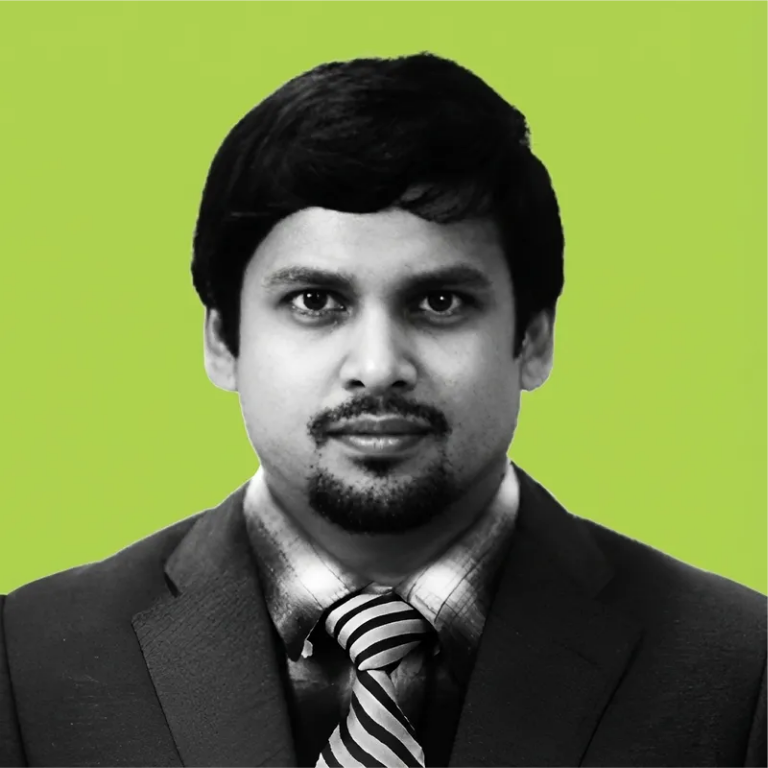
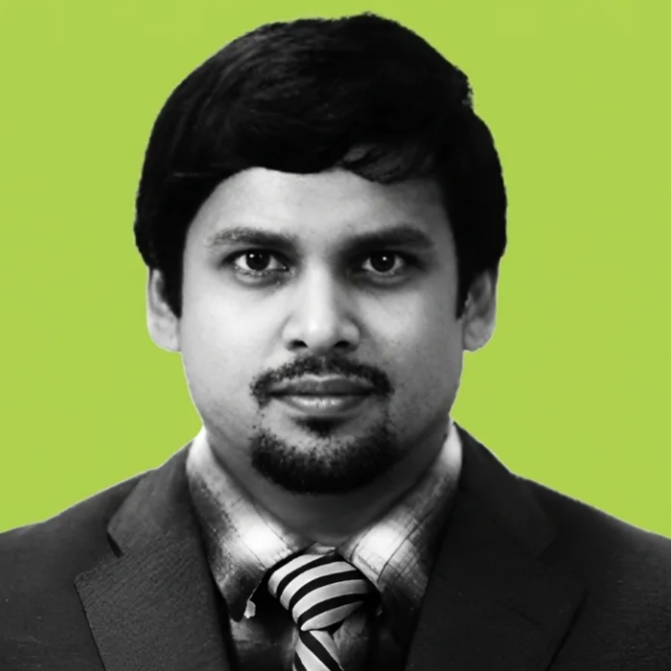
deploy: fb0ec9ef4704affa697c0abbe8e59f0c5f31c004

diff --git a/index.html b/index.html
@@ -174,13 +174,13 @@ window.Quarto = {
 <meta property="og:description" content="Developed by Dr.&nbsp;Md Abdus Samad">
 <meta property="og:image" content="https://www.drabdus.info/files/images/profile.png">
 <meta property="og:site_name" content="Md Abdus Samad">
-<meta property="og:image:height" content="768">
-<meta property="og:image:width" content="768">
+<meta property="og:image:height" content="671">
+<meta property="og:image:width" content="671">
 <meta name="twitter:title" content="Md Abdus Samad, PhD – Md Abdus Samad">
 <meta name="twitter:description" content="Developed by Dr.&nbsp;Md Abdus Samad">
 <meta name="twitter:image" content="https://www.drabdus.info/files/images/profile.png">
-<meta name="twitter:image-height" content="768">
-<meta name="twitter:image-width" content="768">
+<meta name="twitter:image-height" content="671">
+<meta name="twitter:image-width" content="671">
 <meta name="twitter:card" content="summary_large_image">
 </head>
 
@@ -607,7 +607,7 @@ I'm a template that you can fork to build your own website with easy adaptation 
 <p>Check out the latest &nbsp;<a href="./posts.html#category=paper">Papers</a>&nbsp;, &nbsp;<a href="./posts.html#category=news">News</a>&nbsp;, &nbsp;<a href="./posts.html#category=event">Events</a>&nbsp;, and &nbsp;<a href="./posts.html">More »</a></p>
 <div id="listing-recent-posts" class="quarto-listing quarto-listing-container-grid">
 <div class="list grid quarto-listing-cols-3">
[2 lines of base64/hex data omitted]
 <a href="./posts/paper-title/index.html" class="quarto-grid-link">
 <div class="quarto-grid-item card h-100 card-left">
 <p class="card-img-top">
@@ -628,7 +628,7 @@ Aug 30, 2025
 </div>
 </div></a>
 </div>
[2 lines of base64/hex data omitted]
 <a href="./posts/news-title/index.html" class="quarto-grid-link">
 <div class="quarto-grid-item card h-100 card-left">
 <p class="card-img-top">
@@ -646,7 +646,7 @@ Jan 15, 2025
 </div>
 </div></a>
 </div>
-<div class="g-col-1" data-index="2" data-categories="cHVibGljYXRpb24lMkNtYWNoaW5lLWxlYXJuaW5nJTJDaGVhbHRoY2FyZQ==" data-listing-date-sort="1736899200000" data-listing-file-modified-sort="1765016372184" data-listing-date-modified-sort="NaN" data-listing-reading-time-sort="1" data-listing-word-count-sort="44">
+<div class="g-col-1" data-index="2" data-categories="cHVibGljYXRpb24lMkNtYWNoaW5lLWxlYXJuaW5nJTJDaGVhbHRoY2FyZQ==" data-listing-date-sort="1736899200000" data-listing-file-modified-sort="1765080609881" data-listing-date-modified-sort="NaN" data-listing-reading-time-sort="1" data-listing-word-count-sort="44">
 <a href="./posts/posts_2025_01_15_thyroid_cancer.html" class="quarto-grid-link">
 <div class="quarto-grid-item card h-100 card-left">
 <p class="card-img-top">

diff --git a/posts.html b/posts.html
@@ -572,7 +572,7 @@ window.Quarto = {
     </div>
 </div>
 <div class="list quarto-listing-default">
[2 lines of base64/hex data omitted]
 <div class="thumbnail"><a href="./posts/paper-title/index.html" class="no-external">
 
 <img loading="lazy" src="./posts/paper-title/featured.jpg" class="thumbnail-image">
@@ -613,7 +613,7 @@ S. Kakon, S. Chakrabarty, Z. Al Sazid, I. A. Begum, Md Abdus Samad, A. S. M. S. 
 </a>
 </div>
 </div>
[2 lines of base64/hex data omitted]
 <div class="thumbnail"><a href="./posts/news-title/index.html" class="no-external">
 
 <img loading="lazy" src="./files/images/placeholder2.JPG" class="thumbnail-image">
@@ -650,7 +650,7 @@ md abdus samad
 </a>
 </div>
 </div>
-<div class="quarto-post image-right" data-index="2" data-categories="cHVibGljYXRpb24lMkNtYWNoaW5lLWxlYXJuaW5nJTJDaGVhbHRoY2FyZQ==" data-listing-date-sort="1736899200000" data-listing-file-modified-sort="1765016372184" data-listing-date-modified-sort="NaN" data-listing-reading-time-sort="1" data-listing-word-count-sort="44">
+<div class="quarto-post image-right" data-index="2" data-categories="cHVibGljYXRpb24lMkNtYWNoaW5lLWxlYXJuaW5nJTJDaGVhbHRoY2FyZQ==" data-listing-date-sort="1736899200000" data-listing-file-modified-sort="1765080609881" data-listing-date-modified-sort="NaN" data-listing-reading-time-sort="1" data-listing-word-count-sort="44">
 <div class="thumbnail"><a href="./posts/posts_2025_01_15_thyroid_cancer.html" class="no-external">
 
 <img loading="lazy" src="./files/images/placeholder3.JPG" class="thumbnail-image">
@@ -726,7 +726,7 @@ Md Abdus Samad
 </a>
 </div>
 </div>
-<div class="quarto-post image-right" data-index="4" data-categories="ZXZlbnQlMkNwcmVzZW50YXRpb24=" data-listing-date-sort="1725321600000" data-listing-file-modified-sort="1765016372181" data-listing-date-modified-sort="NaN" data-listing-reading-time-sort="1" data-listing-word-count-sort="9">
+<div class="quarto-post image-right" data-index="4" data-categories="ZXZlbnQlMkNwcmVzZW50YXRpb24=" data-listing-date-sort="1725321600000" data-listing-file-modified-sort="1765080609878" data-listing-date-modified-sort="NaN" data-listing-reading-time-sort="1" data-listing-word-count-sort="9">
 <div class="thumbnail"><a href="./posts/event-title/index.html" class="no-external">
 
 <img loading="lazy" src="./files/images/placeholder2.JPG" class="thumbnail-image">

diff --git a/admission-portals.html b/admission-portals.html
@@ -493,7 +493,7 @@ https://badge.dimensions.ai/
     <div>
     <div class="quarto-title-meta-heading">Modified</div>
     <div class="quarto-title-meta-contents">
-      <p class="date-modified">December 6, 2025</p>
+      <p class="date-modified">December 7, 2025</p>
     </div>
   </div>
     
